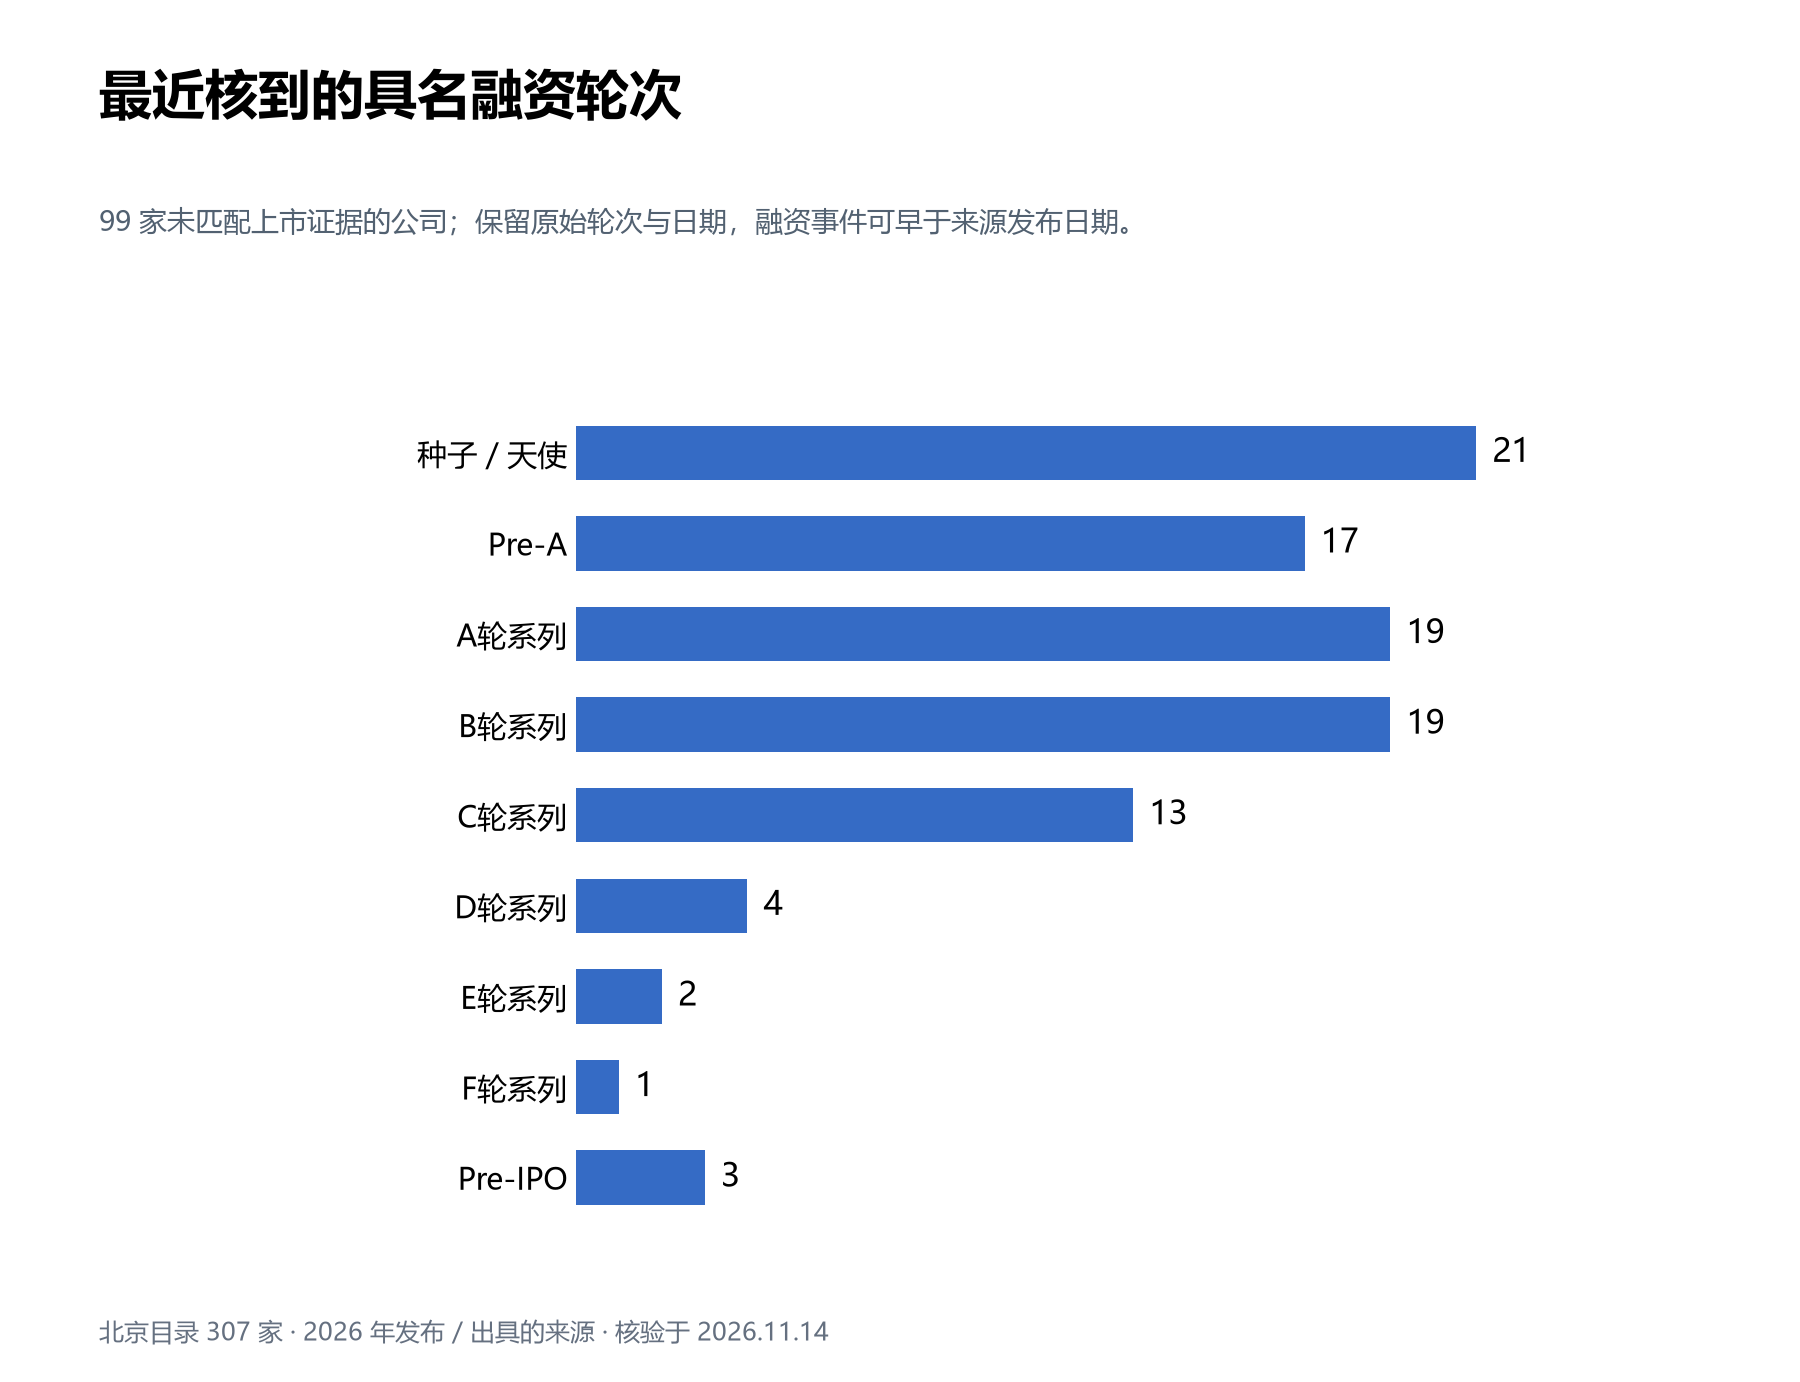
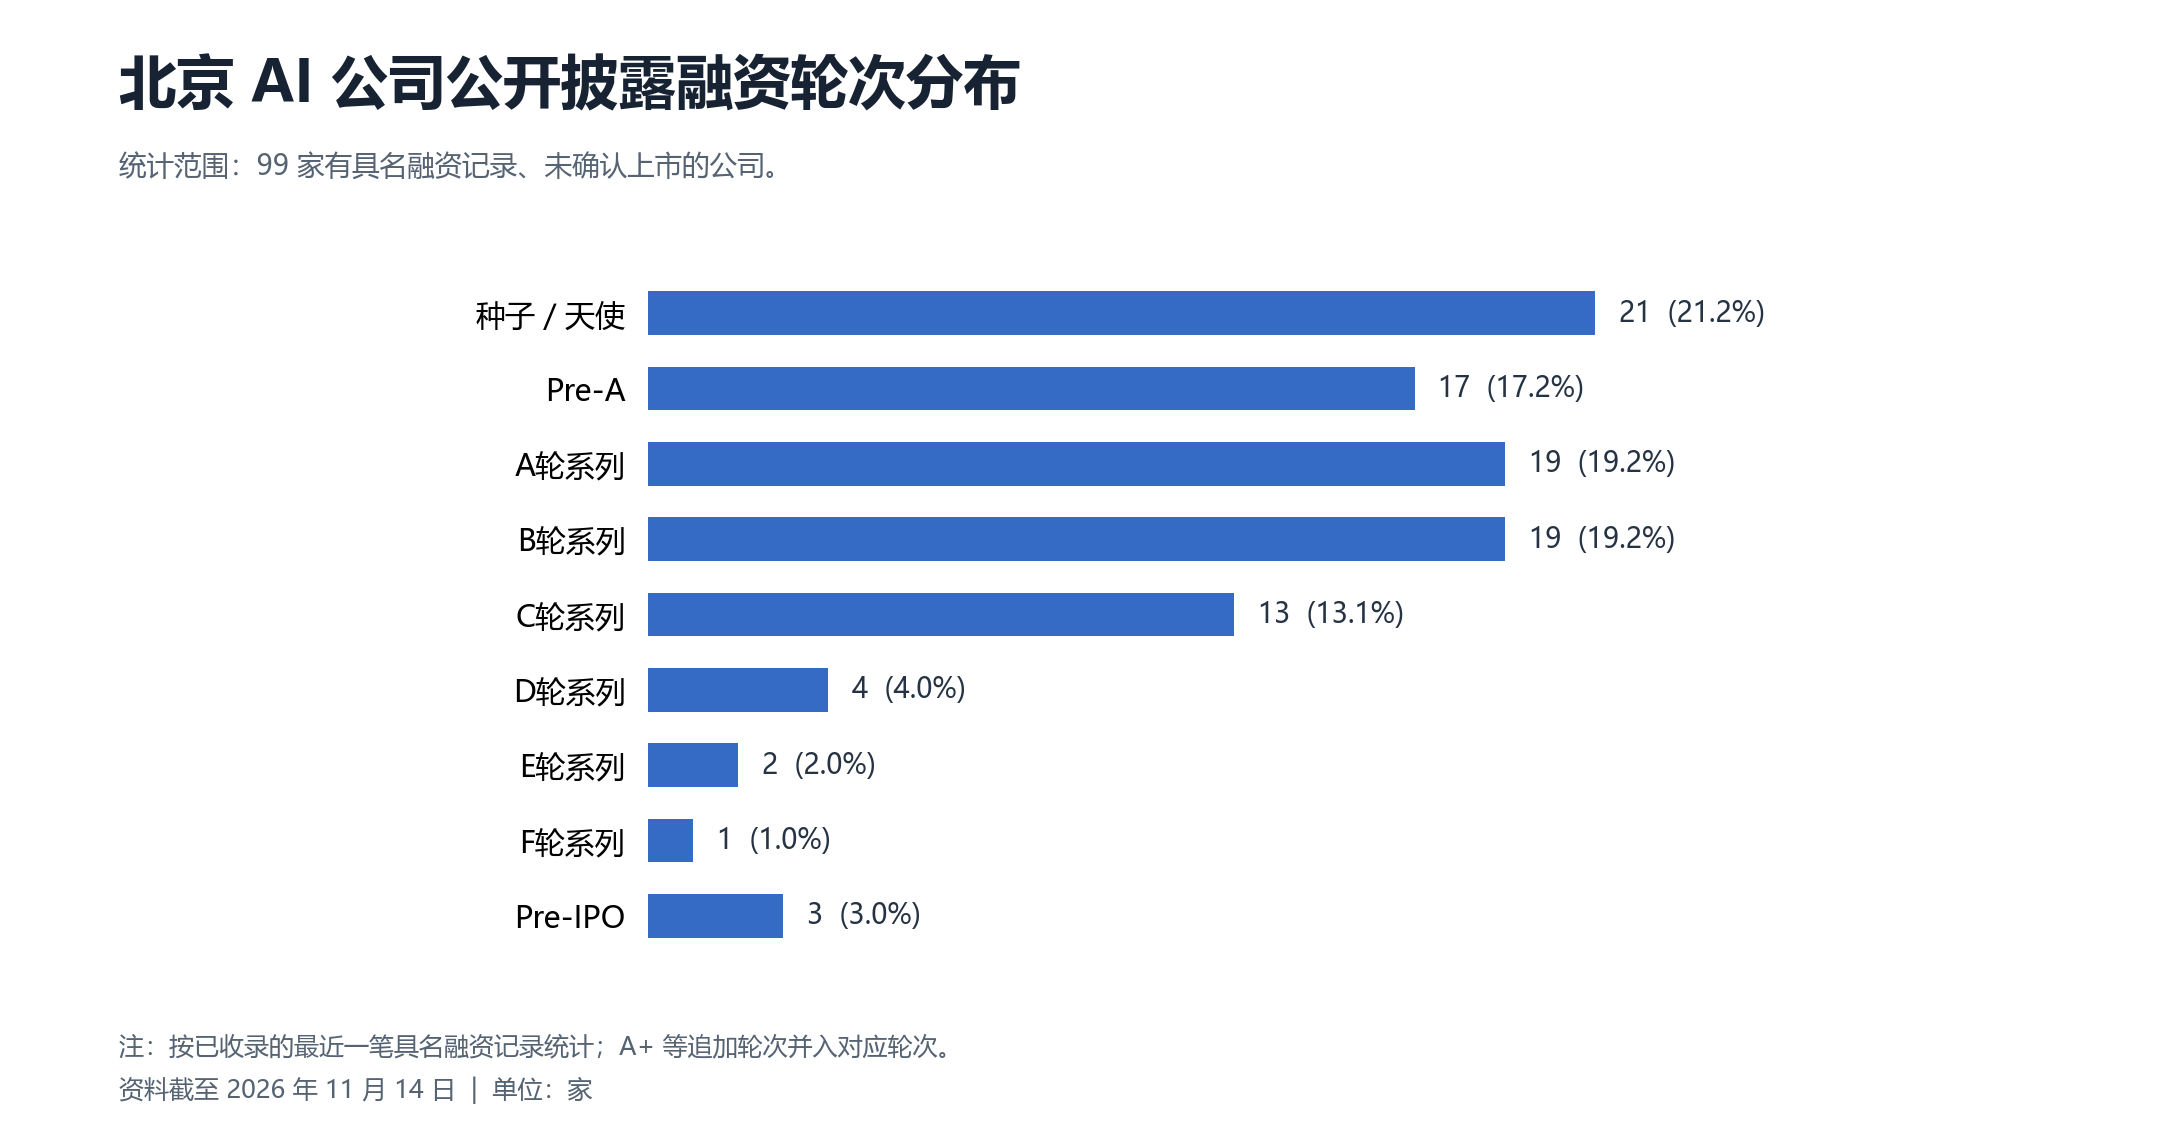
Present user-facing README statistics in report format

Changed region(s): [[0.0622, 0.2482, 0.84, 0.9929], [0.0311, 0.031, 0.6222, 0.1862]]

diff --git a/README.md b/README.md
@@ -2,7 +2,7 @@
 
 在地图上找北京的 AI 公司，查看公司位置、业务方向和招聘入口。
 
-**[打开地图](https://ningsiyuan1024.github.io/ai-company-map/)** · [统计与操作截图](docs/README.md) · [补充公司 / 纠错](https://github.com/ningsiyuan1024/ai-company-map/issues)
+**[打开地图](https://ningsiyuan1024.github.io/ai-company-map/)** · [补充公司 / 纠错](https://github.com/ningsiyuan1024/ai-company-map/issues)
 
 [![北京 AI 公司地图预览](docs/images/01-beijing-map.png)](https://ningsiyuan1024.github.io/ai-company-map/)
 
@@ -18,8 +18,6 @@
 
 ![北京公司方向标签统计](docs/images/direction-tags.png)
 
-[统计口径与数据明细](docs/README.md) · [融资、上市与独角兽核验依据](docs/FINANCE-2026.md)
-
 ## 使用
 
 1. 搜索公司名或感兴趣的方向，也可以按区域、融资阶段、投资机构筛选。
@@ -30,9 +28,8 @@
 
 ## 信息源
 
-| 对照信息源 | 核对内容 |
+| 信息源 | 信息内容 |
 | --- | --- |
-| [DINQ](https://jobs.dinq.me/) | 公司目录、招聘入口 |
 | [胡润研究院](https://www.hurun.net/) | AI 企业榜单、独角兽身份 |
 | [香港交易所披露易](https://www.hkexnews.hk/) | 上市公告、公司定期披露 |
 | [巨潮资讯](https://www.cninfo.com.cn/) | 上市公告书、财务报告 |
